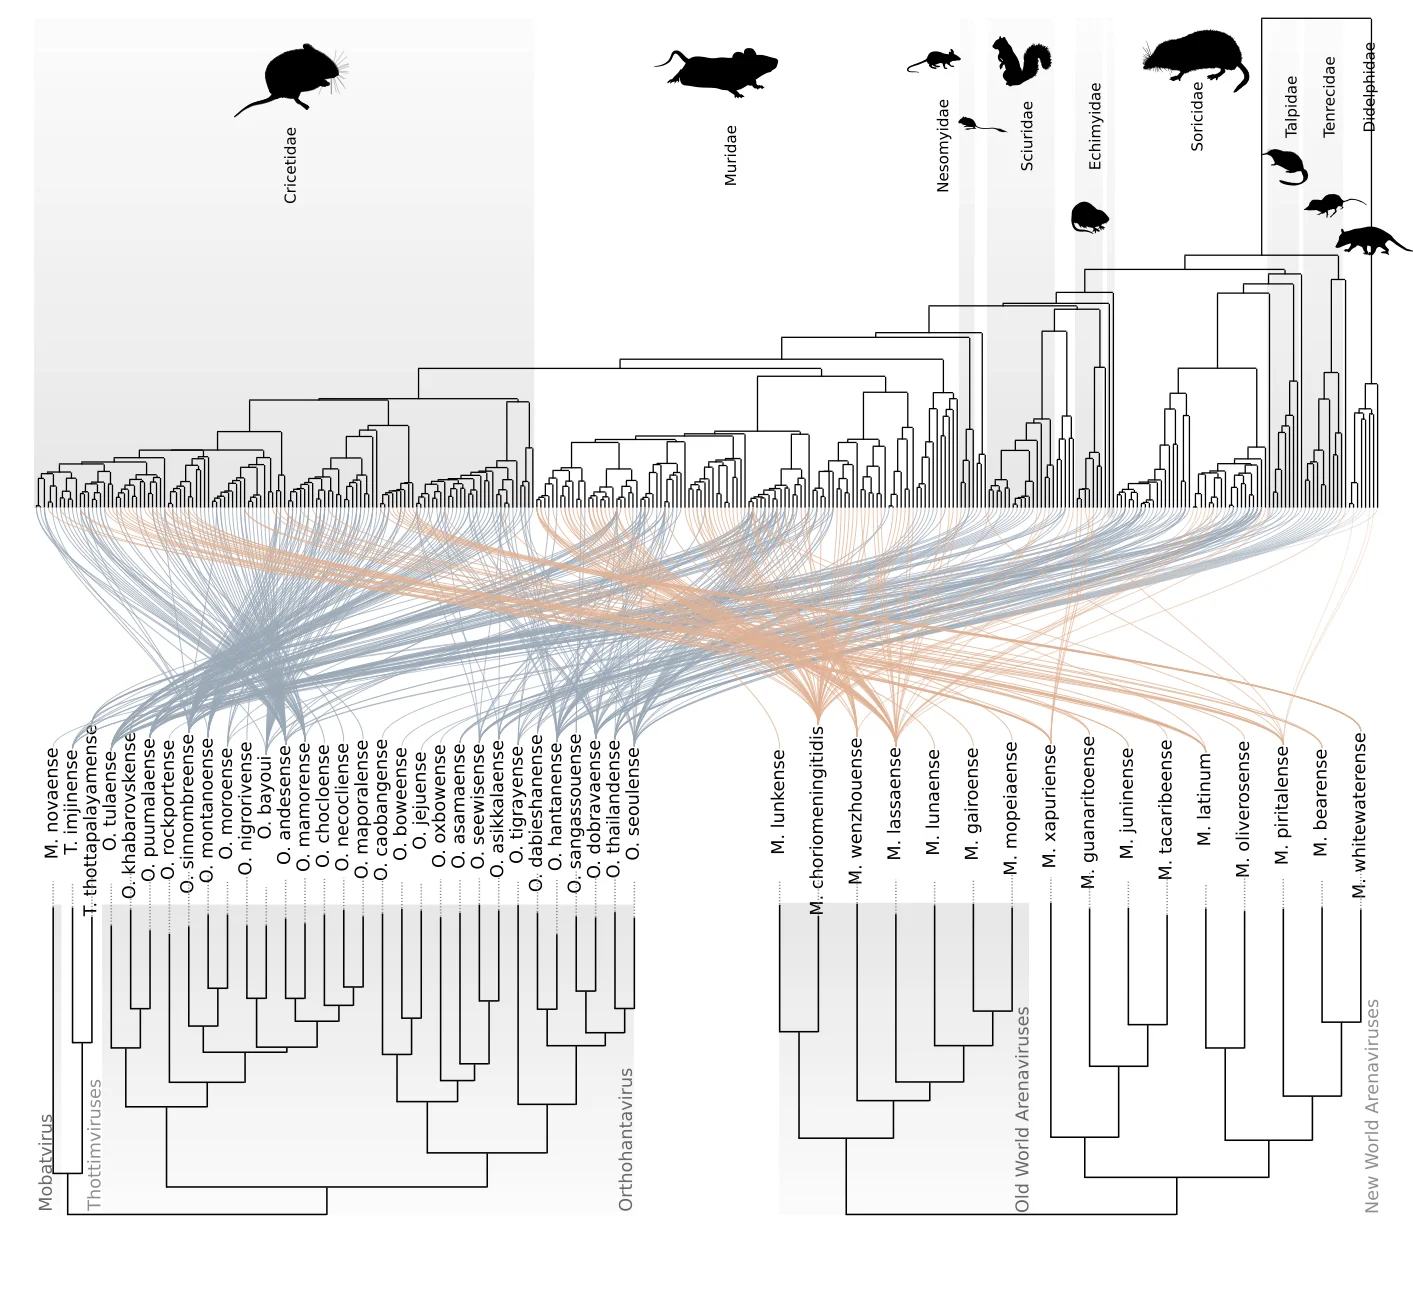
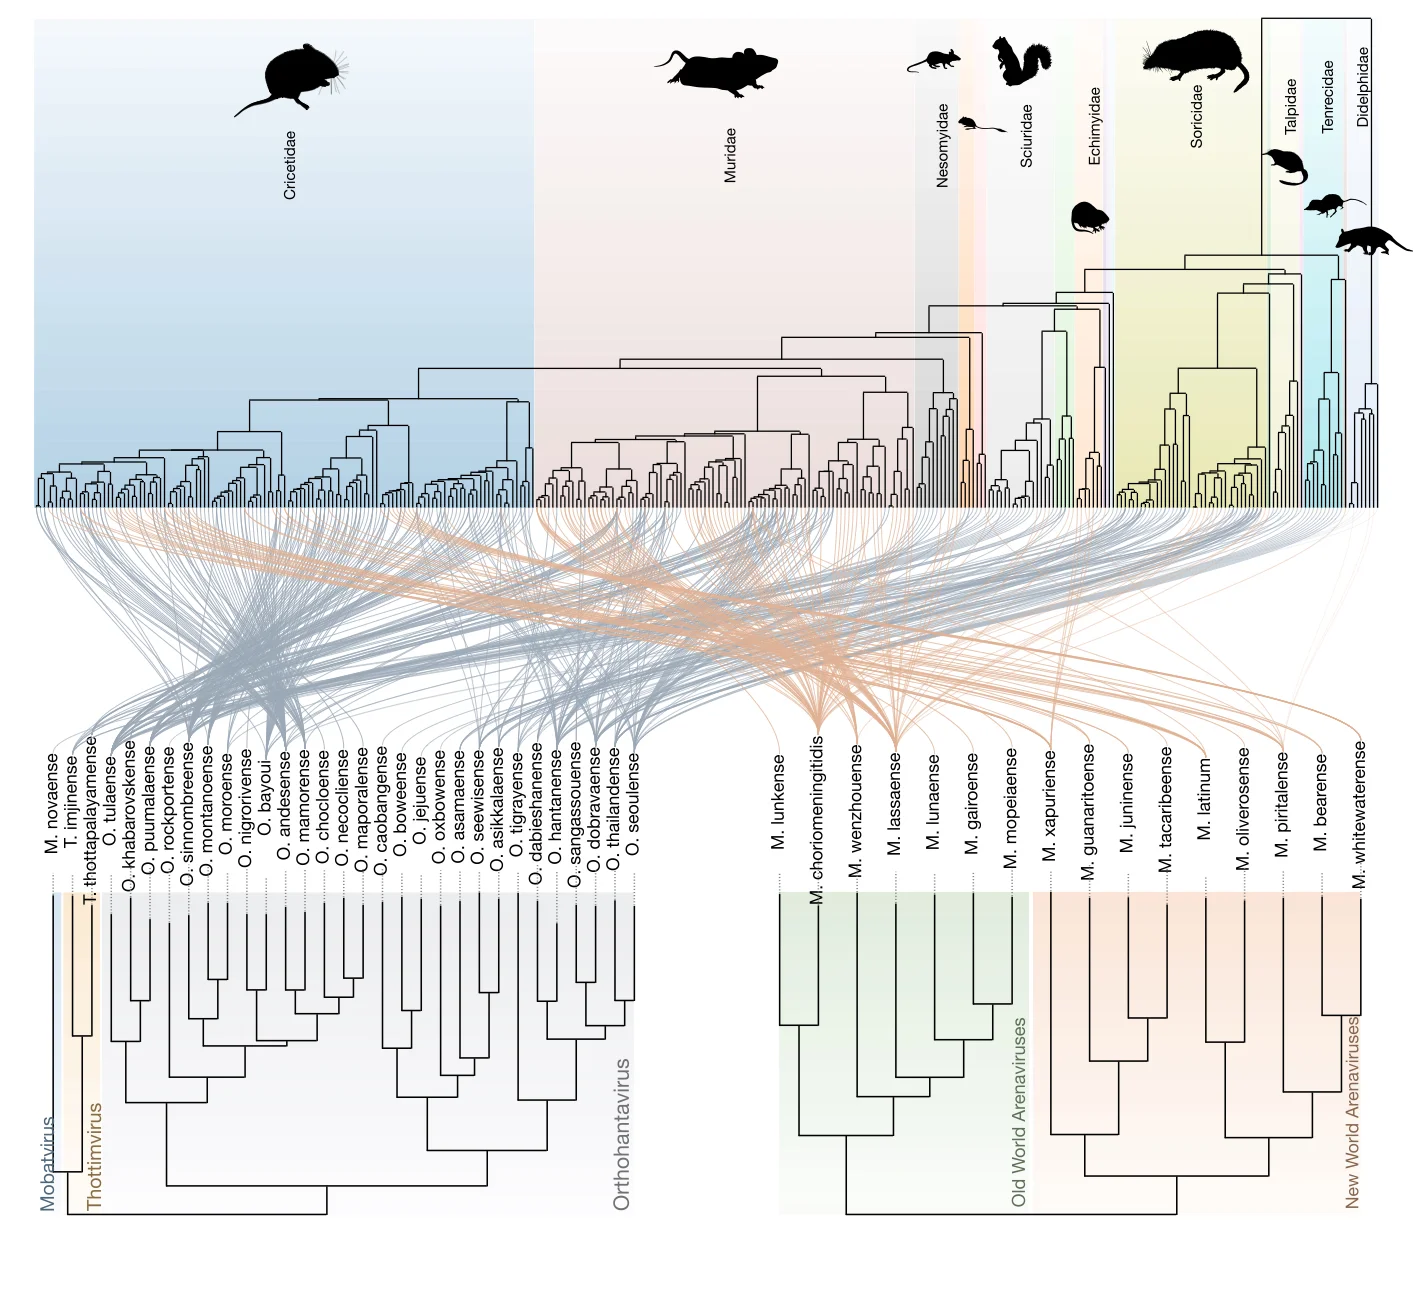
Update ArHa page and note to the revised preprint, and rewrite the hero zone cards
Figures 1 to 4 of the revised reservoir-status preprint replace the v1 figures on the ArHa page, with text matching its revised claims. The paper's explainer note follows the revision. The six zone descriptions under the hero use the owner's new wording.

diff --git a/data/paper_notes/10_64898_2026_06_03_729761.md b/data/paper_notes/10_64898_2026_06_03_729761.md
@@ -1,11 +1,11 @@
 ---
-figure: /arha/figures/fig2_traits.png
-alt: Effect estimates showing that a fast life history and synanthropy each independently raise the probability of reservoir status, holding sampling effort constant.
-caption: Macroecological associations with reservoir status, holding historical sampling volume constant.
+figure: /arha/figures/fig2_host_status.webp
+alt: Four panels showing posterior log-odds for synanthropy, pace of life and sampling effort, and the marginal effect of each on the probability of host status.
+caption: Associations with host status after adjusting for sampling effort.
 ---
 
-Reservoir competence for arenaviruses and hantaviruses appears to track synanthropy, but surveillance has preferentially targeted synanthropic species in high-income regions. Whether that association is biological or an artefact of where sampling has occurred could not be separated without a record of effort as well as of detection.
+Small mammals are the principal hosts of arenaviruses and hantaviruses, but global surveillance is non-random, so the determinants of host status remain contested. Associations with synanthropy or life history could reflect where and which species have been sampled rather than host biology.
 
-Using the ArHa database of global sampling records, taxonomic and geographic bias were quantified first. Surveillance is skewed towards the Palearctic and towards widespread, large-bodied species; 46% of rodent and shrew genera remain entirely unsampled after fifty years, and sampling intensity correlates with accessibility and night-light intensity rather than with host biodiversity. Statistically correcting for historical sampling volume, reservoir status is then estimated as a predictable trait: a fast pace of life, meaning early maturity, large litters and small body mass, independently predicts it, and fully synanthropic species show roughly 1.8-fold higher odds of reservoir competence.
+Using the ArHa database, 729 studies and 695,000 diagnostic assays across 637 species were harmonised. Surveillance intensity followed night-time light intensity and accessibility rather than local host richness, and 46% of rodent genera have never been sampled. Bayesian phylogenetic mixed models of 43,677 host–virus pairs, adjusted for sampling effort, estimate that faster-lived species tended to be detected as hosts more often, though the credible interval included zero (pd 93.2%). Synanthropy was independently associated with host status, with obligate commensals at about twice the odds. Predictions discriminated hosts in withheld continents (AUC 0.81 to 0.88).
 
-Mapping intrinsic biological hazard rather than reactive spillover risk suggests land-use change acts as an ecological filter, with species-poor disturbed landscapes sometimes harbouring communities of higher intrinsic reservoir potential than intact tropical forest.
+Projected globally, community host probability varied largely independently of species richness (*R*² = 0.028). Host and virus phylogenies were congruent, with host switching alongside co-divergence.
